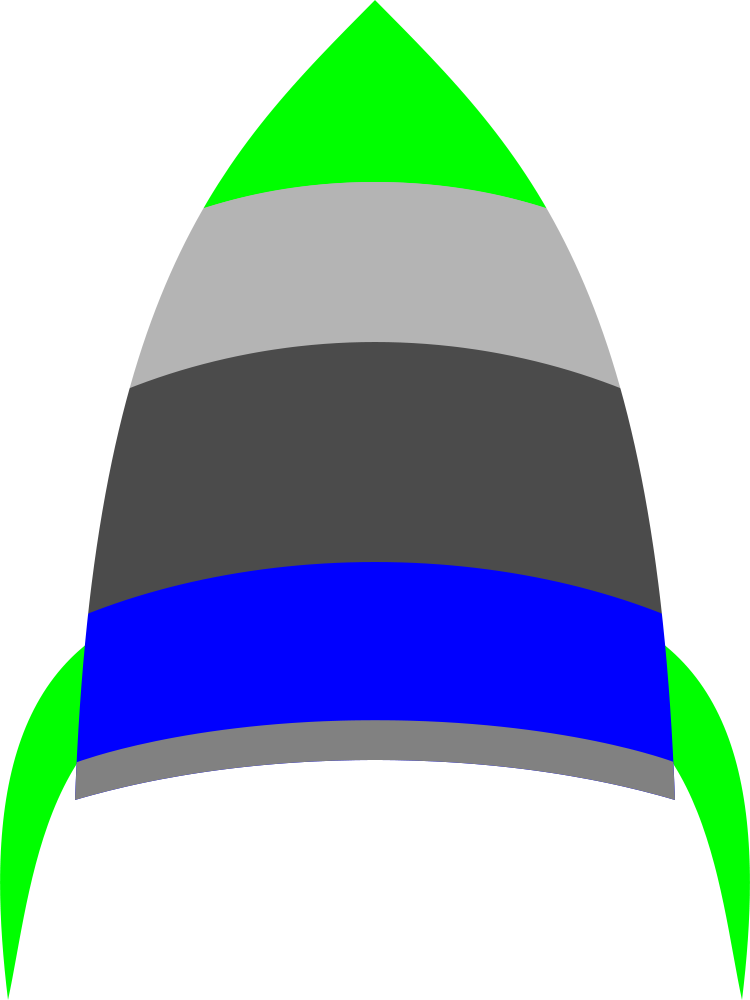
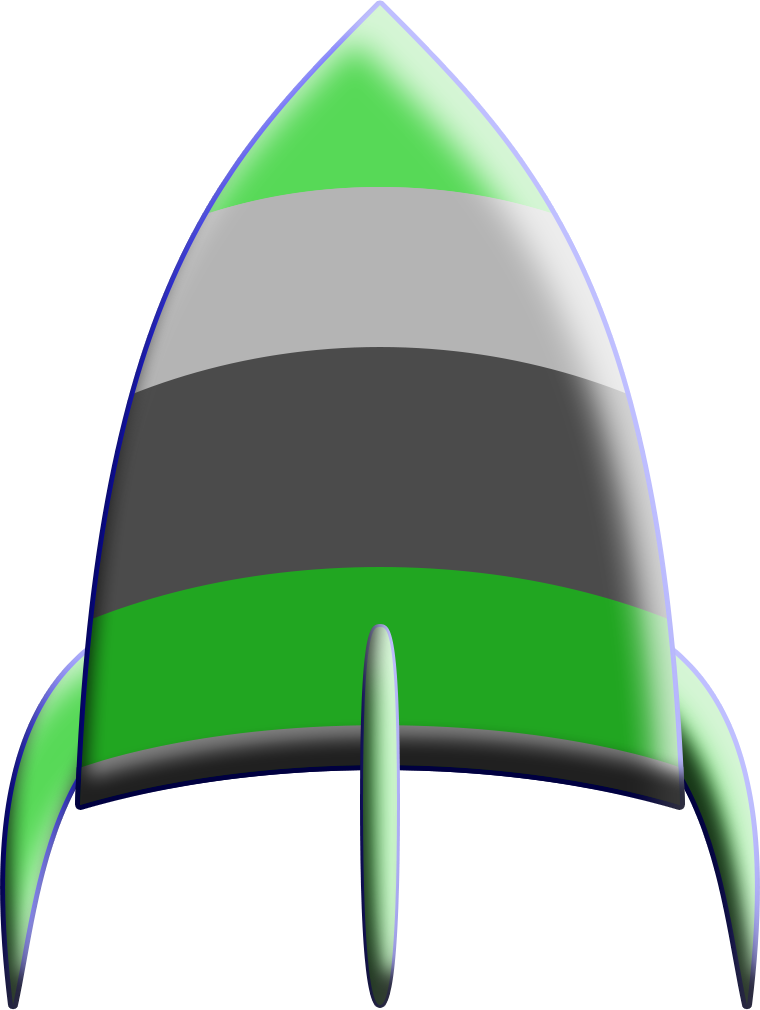
feat: Ajusta assets e adiciona audio

Changed region(s): [[0.0, 0.0, 1.0, 1.0]]

diff --git a/src/components/AlarmRing.jsx b/src/components/AlarmRing.jsx
@@ -1,5 +1,7 @@
 import React, { Component, createRef } from 'react';
 import './AlarmRing.css';
+import checkpointSnd from '../snd/checkpoint.wav';
+import endSnd from '../snd/end.wav';
 
 class AlarmRing extends Component {
   constructor() {
@@ -16,6 +18,7 @@ class AlarmRing extends Component {
       const curr = alarms[index];
       if (prev !== curr && curr === true) {
         overlay = true;
+        this.alarmRefs[index].current.children[0].play();
         this.alarmRefs[index].current.animate(
           [
             { opacity: 0, width: 0 },
@@ -42,7 +45,12 @@ class AlarmRing extends Component {
       <>
         <div className="red-fill" ref={ this.overlayRef } />
         {Array(10).fill().map((_, i) => (
-          <div key={ i } ref={ this.alarmRefs[i] } className="alarm-ring" />
+          <div key={ i } ref={ this.alarmRefs[i] } className="alarm-ring">
+            <audio src={ checkpointSnd }>
+              Your browser does not support the
+              <code>audio</code> element.
+            </audio>
+          </div>
         ))}
       </>
     );

diff --git a/public/index.html b/public/index.html
@@ -7,7 +7,7 @@
     <meta name="theme-color" content="#000000" />
     <meta
       name="description"
-      content="Web site created using create-react-app"
+      content="Stopwatch with space theme"
     />
     <link rel="apple-touch-icon" href="%PUBLIC_URL%/logo192.png" />
     <!--
@@ -24,7 +24,7 @@
       work correctly both with client-side routing and a non-root public URL.
       Learn how to configure a non-root public URL by running `npm run build`.
     -->
-    <title>React App</title>
+    <title>Rocket Stopwatch</title>
   </head>
   <body>
     <noscript>You need to enable JavaScript to run this app.</noscript>
